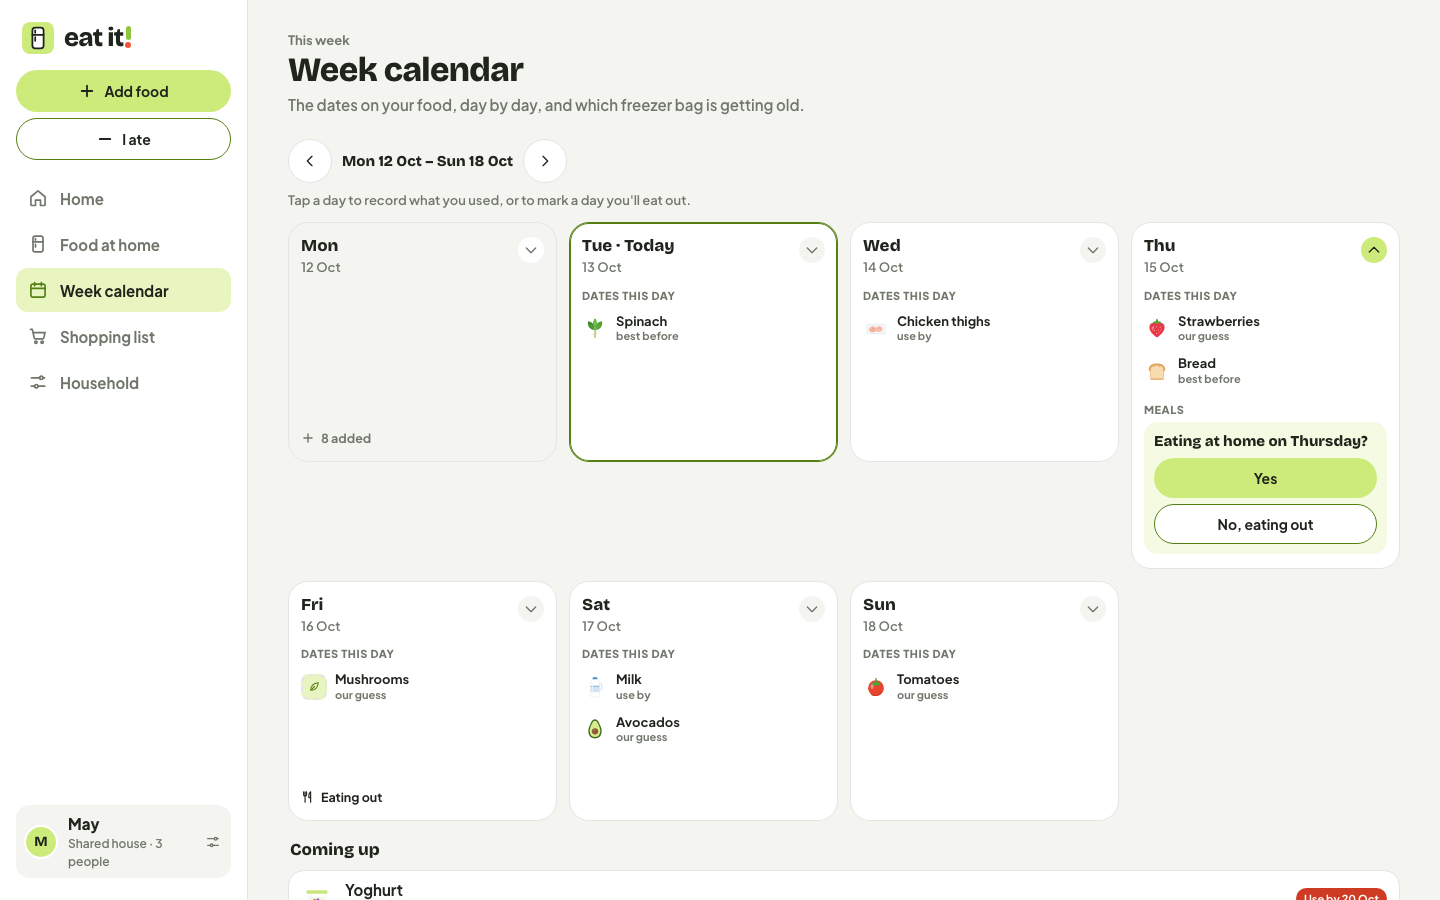
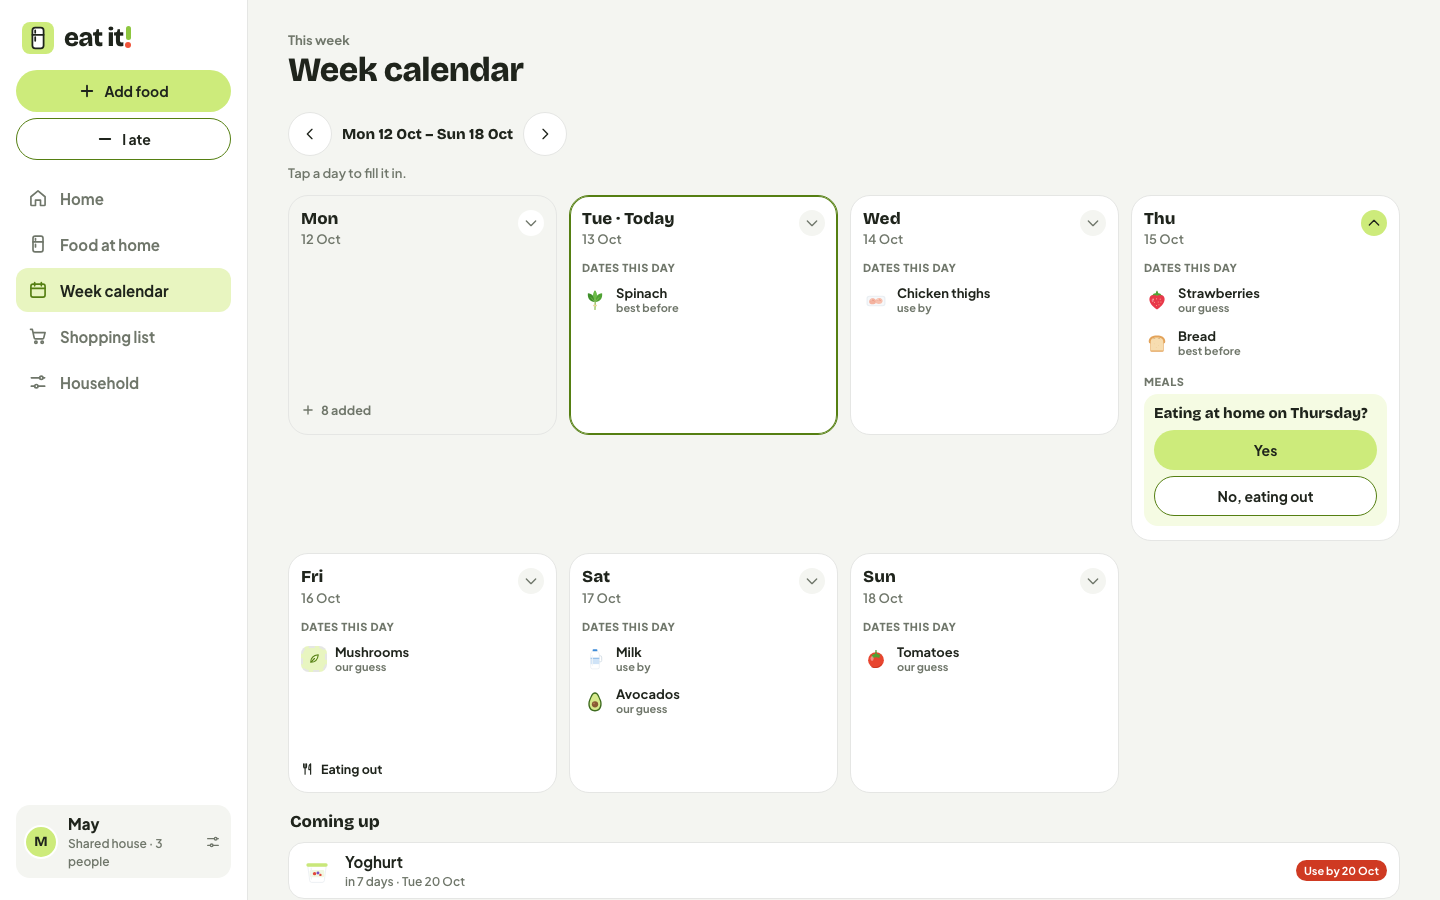
Teammate feedback: voice works every time, real camera, less text
- Voice: one recognizer for the whole visit, reused. A new session waits for
  the last one to end (phones refused to start a second recognizer while the
  first was winding down, so voice worked once and then fell back to typing),
  with timeouts so a browser that never says "ended" can't leave it stuck.
- Add food: Photo / Receipt / Barcode open the real back camera (asks once;
  falls back to the drawings if refused), with a frame per mode. The shutter
  freezes the picture; recognising it is still simulated.
- Less text: a three-line "how it works" card on Home on first visit (Add food
  / Eat first / I ate, "Got it" hides it); shorter hints on I ate, Week and
  Add food; removed the week footnote.
- Clicks right after the first load are no longer ignored.
- README: camera and voice notes, what changed on 10-13; screenshots redone.

Code written with Claude Code (AI-assisted) and reviewed by Jiakuo.

diff --git a/app/js/main.js b/app/js/main.js
@@ -102,6 +102,7 @@ function render() {
     if (focus) center(focus);
   }
   if (app.route === 'week') { app.ui.weekJump = false; app.ui.weekFocus = null; }
+  syncCamera();
   document.body.dataset.route = app.route;
   const next = root.querySelector('.main');
   if (next) next.scrollTop = keep;
@@ -138,7 +139,7 @@ function go(route) {
 function onRoute() {
   const r = routeFromHash();
   const prev = app.route;
-  if (r !== prev) lastNav = Date.now();
+  if (prev && r !== prev) lastNav = Date.now();
   if (r !== 'ate') stopVoice();
   if (r === 'add' && !['scan', 'review', 'ways'].includes(app.route)) app.ui.add = freshAdd();
   if (r === 'ate' && app.route !== 'ate') { app.ui.ate = { ...freshAte(app.ui.ateDay || null), from: app.ui.ateFrom || null }; app.ui.ateDay = null; app.ui.ateFrom = null; }
@@ -171,12 +172,83 @@ function toast(msg, undo = null) {
 }
 
 
+// ---------- camera (Add food) ----------
+// The camera page uses the real camera when it can (phones and laptops ask once), so photo, receipt
+// and barcode look real. Reading what's in the picture is still simulated.
+let camStream = null;
+let camState = 'off';   // off | asking | on | denied
+// Only while a camera screen is actually on show (on a computer, Add food opens the list of ways).
+const camOnScreen = () => [...root.querySelectorAll('.screen.cam')].some((el) => el.getClientRects().length);
+const wantCamera = () => !!(app.store && ['add', 'scan'].includes(app.route) && app.store.persona.photo && !app.ui.add.img
+  && navigator.mediaDevices?.getUserMedia && camState !== 'denied' && camOnScreen());
+function stopCamera() {
+  camStream?.getTracks().forEach((t) => t.stop());
+  camStream = null;
+  if (camState === 'on') camState = 'off';
+}
+async function syncCamera() {
+  if (!wantCamera()) { if (camStream) { stopCamera(); app.ui.camLive = false; } return; }
+  if (camState === 'off') {
+    camState = 'asking';
+    try {
+      camStream = await navigator.mediaDevices.getUserMedia({ video: { facingMode: { ideal: 'environment' }, width: { ideal: 1280 } }, audio: false });
+      camState = 'on';
+    } catch { camState = 'denied'; }
+    if (!wantCamera()) stopCamera();
+    app.ui.camLive = camState === 'on';
+    render();
+    return;
+  }
+  if (camStream) for (const v of root.querySelectorAll('video.cam-feed')) if (v.srcObject !== camStream) { v.srcObject = camStream; v.play?.().catch(() => {}); }
+}
+// The shutter freezes what the camera sees, so the next screens show your own picture.
+function grabFrame() {
+  const v = [...root.querySelectorAll('video.cam-feed')].find((x) => x.getClientRects().length && x.videoWidth);
+  if (!v) return null;
+  const c = document.createElement('canvas');
+  c.width = 720; c.height = Math.round((720 * v.videoHeight) / v.videoWidth);
+  c.getContext('2d').drawImage(v, 0, 0, c.width, c.height);
+  try { return c.toDataURL('image/jpeg', 0.8); } catch { return null; }
+}
+
 // ---------- voice ----------
 
-let rec = null;
+// One recognizer for the whole visit, reused. Phones (iOS Safari especially) refuse to start a new
+// one while the last is still winding down, which made voice work once and then stop. So: wait for
+// the old session to end before starting, and never wait forever for the browser to say it ended.
+let rec = null;        // the recognizer
+let recOn = false;     // from start() until the browser says it ended
+let session = null;    // handlers of the listening session that is running now
+let pendingStart = null;
+let stopTimer = null;
+
+const voiceOff = () => { app.ui.ate.phase = 'nosupport'; app.ui.ate.typing = true; render(); byId('ate-text')?.focus(); };
+
+function recognizer() {
+  const SR = window.SpeechRecognition || window.webkitSpeechRecognition;
+  if (!SR) return null;
+  if (!rec) {
+    rec = new SR();
+    rec.lang = 'en-AU';
+    rec.interimResults = true;
+    rec.continuous = true;
+    rec.onstart = () => { recOn = true; };
+    rec.onresult = (e) => session?.onresult(e);
+    rec.onerror = (e) => session?.onerror(e);
+    rec.onend = () => {
+      recOn = false;
+      const next = pendingStart; pendingStart = null;
+      if (next) { next(); return; }
+      session?.onend();
+    };
+  }
+  return rec;
+}
 
 function stopVoice() {
-  if (rec) { rec.onend = null; try { rec.abort(); } catch { /* already stopped */ } rec = null; }
+  session = null;
+  clearTimeout(stopTimer);
+  if (rec && recOn) { try { rec.abort(); } catch { /* already stopped */ } }
 }
 
 // After speaking: let the AI (or the built-in reader) work out the food, then ask about anything
@@ -203,31 +275,50 @@ function listen() {
   stopVoice();
   app.ui.ate = { ...freshAte(app.ui.ate.day), phase: 'listening' };
   render();
-  const SR = window.SpeechRecognition || window.webkitSpeechRecognition;
-  if (!SR) { app.ui.ate.phase = 'nosupport'; app.ui.ate.typing = true; render(); byId('ate-text')?.focus(); return; }
-  rec = new SR();
-  rec.lang = 'en-AU';
-  rec.interimResults = true;
-  rec.continuous = true;
+  if (!recognizer()) { voiceOff(); return; }
   let finalText = '';
-  rec.onresult = (e) => {
-    let interim = '';
-    for (let k = e.resultIndex; k < e.results.length; k++) {
-      const r = e.results[k];
-      if (r.isFinal) finalText += `${r[0].transcript} `; else interim += r[0].transcript;
-    }
-    app.ui.ate.text = `${finalText}${interim}`.trim();
-    render();
+  const mine = {
+    onresult(e) {
+      let interim = '';
+      for (let k = e.resultIndex; k < e.results.length; k++) {
+        const r = e.results[k];
+        if (r.isFinal) finalText += `${r[0].transcript} `; else interim += r[0].transcript;
+      }
+      app.ui.ate.text = `${finalText}${interim}`.trim();
+      render();
+    },
+    onerror(e) {
+      if (['not-allowed', 'service-not-allowed', 'audio-capture', 'network'].includes(e.error)) { session = null; voiceOff(); }
+    },
+    onend() {
+      if (session !== mine) return;
+      session = null;
+      clearTimeout(stopTimer);
+      if (app.ui.ate.phase === 'listening') finishVoice();
+    },
   };
-  rec.onerror = (e) => {
-    if (['not-allowed', 'service-not-allowed', 'audio-capture', 'network'].includes(e.error)) { stopVoice(); app.ui.ate.phase = 'nosupport'; app.ui.ate.typing = true; render(); }
+  session = mine;
+  const begin = () => {
+    if (session !== mine) return;
+    try { recognizer().start(); recOn = true; } catch { session = null; voiceOff(); }
   };
-  rec.onend = () => { rec = null; if (app.ui.ate.phase === 'listening') finishVoice(); };
-  try { rec.start(); } catch { rec = null; app.ui.ate.phase = 'nosupport'; app.ui.ate.typing = true; render(); }
+  if (!recOn) { begin(); return; }
+  // The last session is still ending: start when it has. If the browser never says so, start over
+  // with a fresh recognizer.
+  pendingStart = begin;
+  setTimeout(() => { if (pendingStart === begin) { pendingStart = null; rec = null; recOn = false; begin(); } }, 800);
 }
 
 function stopListening() {
-  if (rec) { rec.stop(); return; }
+  if (session && recOn) {
+    try { rec.stop(); } catch { /* ended already */ }
+    // Some browsers never send "end" after stop: finish anyway.
+    const mine = session;
+    clearTimeout(stopTimer);
+    stopTimer = setTimeout(() => { if (session === mine) { stopVoice(); rec = null; recOn = false; if (app.ui.ate.phase === 'listening') finishVoice(); } }, 1500);
+    return;
+  }
+  session = null;
   finishVoice();
 }
 
@@ -397,7 +488,7 @@ const ACT = {
     render();
   },
   mode(m) { app.ui.add.mode = m; app.ui.add.img = null; render(); },
-  shoot() { startScan(null); },
+  shoot() { startScan(grabFrame()); },
   review(src) {
     app.ui.add = freshAdd({ src, mode: src });
     app.ui.add.lines = buildLines(app, src);
@@ -509,6 +600,7 @@ const ACT = {
     try { for (const k of Object.keys(localStorage)) if (k.startsWith('eatit:')) localStorage.removeItem(k); } catch { /* storage blocked */ }
     location.reload();
   },
+  'guide-done'() { prefs.set(`guide:${app.store.persona.id}`, true); render(); },
   'ate-close'() { go(ateBack()); },
   'ate-back'() {
     const a = app.ui.ate;

diff --git a/app/js/views/add.js b/app/js/views/add.js
@@ -17,8 +17,8 @@ export const usualFoods = (app) => app.store.persona.usual || usual(app.store.st
 const pickable = () => Object.keys(FOODS).filter((f) => !food(f).leftover && food(f).cat !== 'nonfood');
 
 const METHODS = [
-  ['receipt', 'Scan a receipt', 'Best after a big shop. AI reads each line, then you check it.', true, true],
-  ['photo', 'Photo of your food', 'Take one now or pick one from your photos. AI recognises the food.', false, true],
+  ['receipt', 'Scan a receipt', 'Best after a big shop.', true, true],
+  ['photo', 'Photo of your food', 'Snap what you bought.', false, true],
   ['email', 'Receipts from your email', 'AI finds grocery receipts in your inbox. Asks you first.', false, true],
   ['barcode', 'Scan a barcode', 'One item at a time.'],
   ['type', 'Type it in', 'Name, where it goes, done.'],
@@ -31,9 +31,9 @@ export function waysPage(app) {
   const desc = { email: s.links.email ? 'Connected. Tap to see new receipts.' : null, account: s.links.account ? 'Linked. New online orders come in by themselves.' : null };
   return `<div class="page ways">
     <header class="top phone-only"><button class="round" data-act="go" data-arg="add" aria-label="Back">${ICON.back({ size: 18 })}</button><h1>Add food</h1></header>
-    <div class="desk-only">${pageHead('Add food', 'How did it come in?', 'Whichever way you add food, you can fix it later. Anything AI reads or recognises is checked by you before it goes in.')}</div>
+    <div class="desk-only">${pageHead('Add food', 'How did it come in?', 'AI reads it, you check it.')}</div>
     <div class="mgrid">${METHODS.map(([k, t, d, main, ai]) => `<button class="method${main ? ' main' : ''}" data-act="method" data-arg="${k}"><span class="m-ic">${ICON[METHOD_ICON[k]]({ size: 22 })}</span><b>${esc(k === 'account' && s.links.account ? 'Supermarket account linked' : t)}${ai ? aiBadge : ''}</b><small>${esc(desc[k] || d)}</small></button>`).join('')}</div>
-    <section class="ate-promo"><button class="method" data-act="go" data-arg="ate"><span class="m-ic">${ICON.mic({ size: 22 })}</span><b>Took food out? Say what you ate</b><small>Ten seconds at bedtime instead of logging every meal.</small></button></section>
+    <section class="ate-promo"><button class="method" data-act="go" data-arg="ate"><span class="m-ic">${ICON.mic({ size: 22 })}</span><b>Took food out? Say what you ate</b></button></section>
   </div>`;
 }
 
@@ -49,9 +49,17 @@ export function cameraScreen(app) {
   const src = a.mode === 'receipt' ? p.receipt : a.mode === 'barcode' ? (p.barcode ? { lines: [p.barcode] } : null) : p.photo;
   const lines = src?.lines || [];
   const n = (p.photo ? lines.filter((l) => !l.nonfood).length : 0) + a.picks.length;
-  const hint = !p.photo ? 'Scanner not connected' : a.img ? 'Your photo' : a.mode === 'receipt' ? 'Real receipt goes here' : a.mode === 'barcode' ? 'Point at a barcode' : 'Real photo goes here';
+  // With the real camera on, the view is the live picture plus a frame for the mode; recognising
+  // what's in it is still simulated (the shutter freezes the frame, then the usual results come).
+  const live = ui.camLive && p.photo && !a.img;
+  const hint = !p.photo ? 'Scanner not connected' : a.img ? (a.scanning ? 'Reading…' : 'Your photo')
+    : a.mode === 'receipt' ? (live ? 'Fit the receipt in the frame' : 'Real receipt goes here') : a.mode === 'barcode' ? 'Point at a barcode' : live ? 'Point at your food' : 'Real photo goes here';
   let view;
-  if (!p.photo) {
+  if (live) {
+    view = `<video class="cam-feed" autoplay playsinline muted aria-hidden="true"></video><span class="cam-guide g-${a.mode}" aria-hidden="true"></span>${a.mode === 'photo' ? '' : '<span class="scanline"></span>'}`;
+  } else if (a.img && a.mode !== 'photo') {
+    view = '<span class="scanline"></span>';
+  } else if (!p.photo) {
     view = `<div class="cam-pick" role="group" aria-label="Food">${pickable().map((f) => `<button class="usual-b${a.picks.includes(f) ? ' on' : ''}" data-act="usual" data-arg="${esc(f)}" aria-pressed="${a.picks.includes(f)}" aria-label="${esc(foodName(f, 1))}">${pic(f, { size: 34 })}</button>`).join('')}</div>`;
   } else if (a.mode === 'receipt') {
     view = `<div class="cam-receipt" aria-hidden="true">${receiptPaper(p.receipt, { mini: true })}</div><span class="scanline"></span>`;

diff --git a/app/styles.css b/app/styles.css
@@ -228,6 +228,14 @@ input[type=checkbox] { width: 20px; height: 20px; accent-color: var(--leaf-deep)
 .home-grid { display: flex; flex-direction: column; }
 .h-today { padding: 0 16px; margin-top: 4px; }
 .h-empty { margin: 0 16px 14px; }
+.guide { display: flex; flex-direction: column; gap: 12px; margin-bottom: 14px; background: var(--wash); border-color: transparent; }
+.guide ul { list-style: none; margin: 0; padding: 0; display: flex; flex-direction: column; gap: 10px; }
+.guide li { display: flex; align-items: center; gap: 12px; }
+.guide li > span:last-child { display: flex; flex-direction: column; }
+.guide b { font: 800 15px var(--font-title); }
+.guide small { font-size: 13px; color: var(--stone); }
+.g-ic { display: grid; place-items: center; width: 34px; height: 34px; border-radius: 50%; background: var(--leaf); color: var(--ink); flex: none; }
+.guide .btn { align-self: flex-start; }
 .today-card { display: flex; flex-direction: column; gap: 10px; background: var(--wash); border-color: transparent; }
 .today-card .meal.ask { padding: 0; background: none; }
 .thaw-line { display: flex; align-items: center; gap: 6px; flex-wrap: wrap; font-size: 13px; }
@@ -307,6 +315,12 @@ input[type=checkbox] { width: 20px; height: 20px; accent-color: var(--leaf-deep)
 .cam-count::before { content: ''; width: 8px; height: 8px; border-radius: 50%; background: var(--sprout); }
 .cam-view { position: relative; flex: 1; padding: 6px 16px; overflow: hidden; }
 .cam-view.has-photo { background: var(--photo) center / cover no-repeat; }
+.cam-feed { position: absolute; inset: 0; width: 100%; height: 100%; object-fit: cover; background: var(--ink); }
+.cam-guide { position: absolute; left: 50%; top: 46%; transform: translate(-50%, -50%); border: 3px solid var(--white); border-radius: 18px; box-shadow: 0 0 0 999px color-mix(in srgb, var(--ink) 28%, transparent); pointer-events: none; }
+.cam-guide.g-photo { width: 78%; height: 62%; border-style: dashed; box-shadow: none; }
+.cam-guide.g-receipt { width: 58%; height: 78%; }
+.cam-guide.g-barcode { width: 76%; height: 24%; }
+.cam-feed ~ .scanline { left: 12%; right: 12%; top: 46%; }
 .boxes { display: grid; grid-template-columns: repeat(6, 1fr); gap: 14px 10px; align-content: start; padding-top: 4px; }
 .box { position: relative; display: grid; place-items: center; height: 86px; border: 2.5px solid var(--leaf); border-radius: 18px; background: color-mix(in srgb, var(--white) 22%, transparent); }
 .box-lg, .box-md { grid-column: span 3; }
@@ -784,6 +798,12 @@ button.day-head { cursor: pointer; }
   .handle { display: none; }
   .onboard { background: var(--mist); }
   @keyframes slide { from { transform: translateX(40px); opacity: 0; } }
+}
+
+@media (min-width: 900px) {
+  .guide { flex-direction: row; align-items: center; gap: 24px; }
+  .guide ul { flex: 1; flex-direction: row; gap: 28px; }
+  .guide .btn { align-self: center; }
 }
 
 @media (min-width: 1500px) {

diff --git a/app/js/views/week.js b/app/js/views/week.js
@@ -108,12 +108,11 @@ export function weekPage(app) {
   const nav = `<div class="wk-nav"><button class="round" data-act="week-move" data-arg="-1" aria-label="Previous week">${ICON.back({ size: 16 })}</button><span>${esc(fmtDay(days[0].date))} – ${esc(fmtDay(end))}</span><button class="round" data-act="week-move" data-arg="1" aria-label="Next week">${ICON.next({ size: 16 })}</button>${off ? '<button class="link" data-act="week-move" data-arg="0">This week</button>' : ''}</div>`;
   return `<div class="page week">
     ${phoneTitle(app, 'Week calendar')}
-    <div class="desk-only">${pageHead(off === 0 ? 'This week' : off === 1 ? 'Next week' : off === -1 ? 'Last week' : off > 0 ? `In ${off} weeks` : `${-off} weeks ago`, 'Week calendar', 'The dates on your food, day by day, and which freezer bag is getting old.')}</div>
+    <div class="desk-only">${pageHead(off === 0 ? 'This week' : off === 1 ? 'Next week' : off === -1 ? 'Last week' : off > 0 ? `In ${off} weeks` : `${-off} weeks ago`, 'Week calendar')}</div>
     ${nav}
-    <p class="wk-hint">Tap a day to record what you used, or to mark a day you'll eat out.</p>
+    <p class="wk-hint">Tap a day to fill it in.</p>
     <div class="days" tabindex="0" aria-label="Seven days">${days.map((d) => dayCard(app, d)).join('')}</div>
     ${later.length && off >= 0 ? `<section>${secHead('Coming up')}<ul class="rows">${later.map((l) => { const t = dateTag(l.date, today); const n = daysBetween(today, lastGood(l.date)); return `<li><button class="row" data-act="lot" data-arg="${esc(l.id)}">${pic(l.food, { size: 32, lot: l })}<span class="r-main"><b>${esc(foodName(l.food, 2, l))}</b><small>${esc(n === 1 ? 'tomorrow' : `in ${n} days`)} · ${esc(fmtDay(lastGood(l.date)))}</small></span><span class="tag tag-${t.kind}">${esc(t.text)}</span></button></li>`; }).join('')}</ul></section>` : ''}
-    <p class="small muted pad">Forgot to say what you ate? Open any food on Home and change how much is left.</p>
   </div>`;
 }
 

diff --git a/app/js/views/home.js b/app/js/views/home.js
@@ -5,6 +5,7 @@ import { foodName } from '../foods.js';
 import { fmtDay, greeting, dateTag } from '../dates.js';
 import { ICON, appIcon } from '../icons.js';
 import { esc, pic, pageHead, label } from '../ui.js';
+import { prefs } from '../store.js';
 import { homePicture, eatFirstHtml, todayHtml, shelfGroups } from './parts.js';
 
 export function phoneHeader(app, title) {
@@ -39,6 +40,16 @@ function listAll(app) {
   return `<section class="list">${body || ''}</section>`;
 }
 
+// First visit: how it works in three lines, until "Got it" (once per user, on this device).
+function guide(app) {
+  if (prefs.get(`guide:${app.store.persona.id}`, false)) return '';
+  const row = (icon, t, d) => `<li><span class="g-ic">${icon}</span><span><b>${t}</b><small>${d}</small></span></li>`;
+  return `<section class="card guide" aria-label="How it works">
+    <ul>${row(ICON.plus({ size: 18, stroke: 2.4 }), 'Add food', 'Snap it or the receipt.')}${row(ICON.fridge({ size: 18 }), 'Eat first', 'Use these soon.')}${row(ICON.mic({ size: 18 }), 'I ate', 'Say what you cooked.')}</ul>
+    <button class="btn btn-primary sm" data-act="guide-done">Got it</button>
+  </section>`;
+}
+
 export function homePage(app) {
   const { store, ui } = app;
   const s = store.state, p = store.persona, today = store.today, clock = store.clock;
@@ -49,6 +60,7 @@ export function homePage(app) {
   return `<div class="page home">
     ${phoneHeader(app, title)}
     <div class="desk-only">${pageHead(`${esc(fmtDay(today))} · ${esc(clock)}`, `${esc(greeting(clock))}, ${esc(s.profile.name || p.name)}`)}</div>
+    ${guide(app)}
     ${empty}
     <div class="home-grid">
       <div class="h-eat">${eatFirstHtml(app)}</div>

diff --git a/app/js/views/ate.js b/app/js/views/ate.js
@@ -129,7 +129,7 @@ function inner(app) {
     <header class="cam-top">${close}</header>
     <main class="scroll ate-body center">
       <h1 class="display">What did you<br>eat ${a.day ? `on ${esc(longDay(a.day).split(' ')[0])}` : 'today'}?</h1>
-      <p class="ate-hint">Tell it like you'd tell a friend: what you cooked and what went in.</p>
+      <p class="ate-hint">Say what you cooked. We'll ask what's left.</p>
       <button class="mic" data-act="listen" aria-label="Start talking">${ICON.mic({ size: 30, stroke: 2.2 })}</button>
       ${note}${typed}
     </main>
